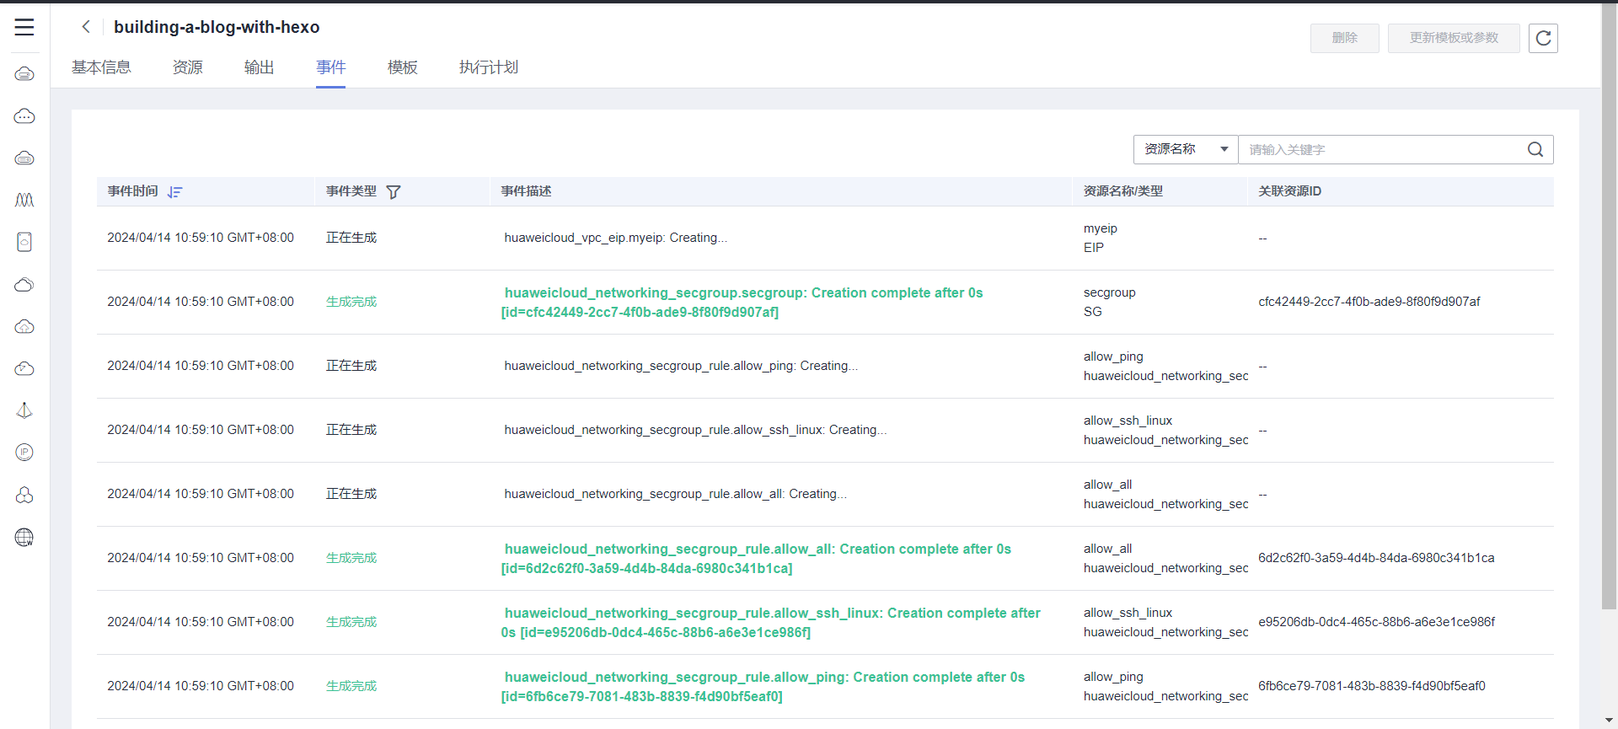
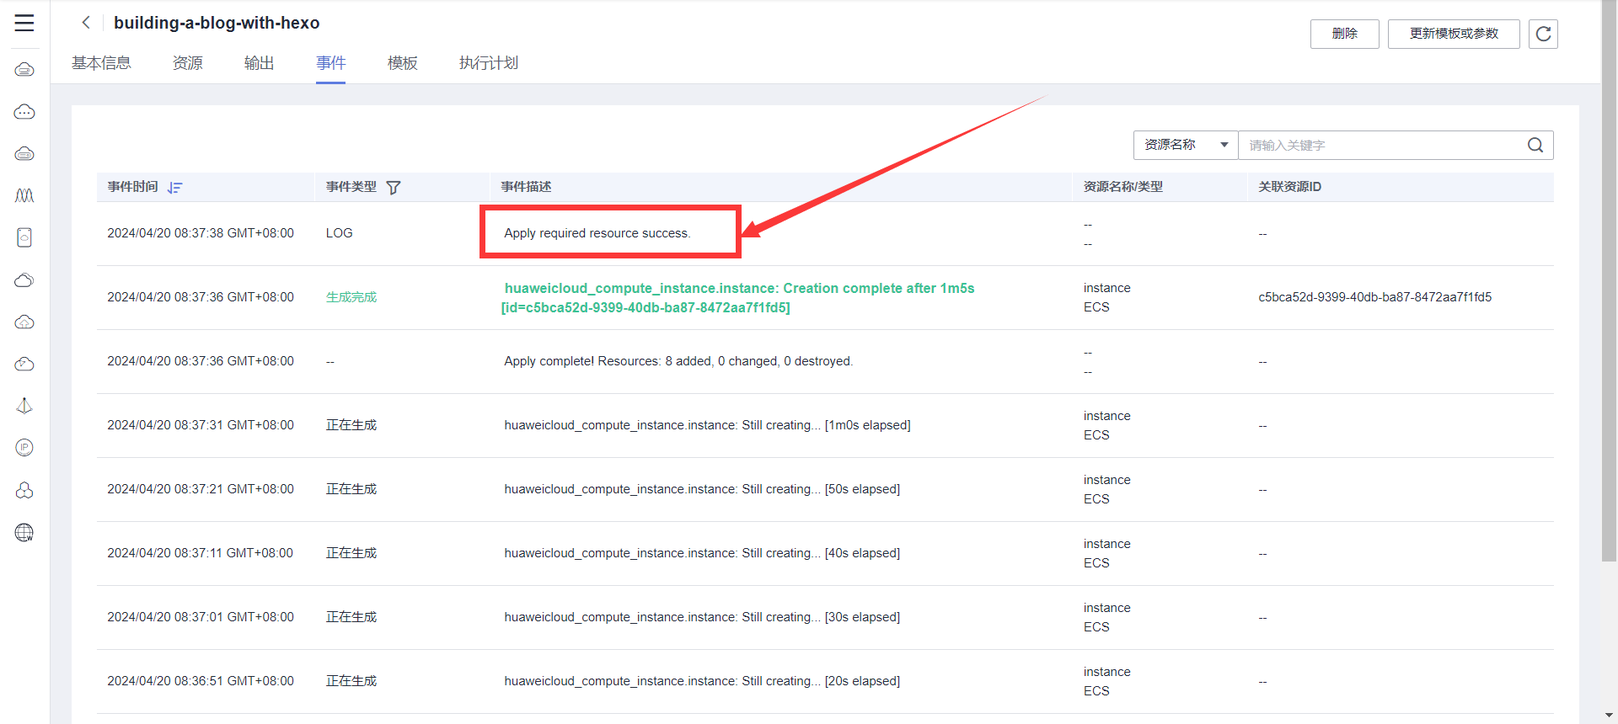
Site updated: 2024-04-20 19:26:58

diff --git a/2024/04/14/华为云/index.html b/2024/04/14/华为云/index.html
@@ -34,6 +34,32 @@
 <meta property="og:image" content="https://nuist666.github.io/images/%E6%89%A7%E8%A1%8C%E8%AE%A1%E5%88%92.png">
 <meta property="og:image" content="https://nuist666.github.io/images/%E6%89%A7%E8%A1%8C%E8%AE%A1%E5%88%92%E7%A1%AE%E8%AE%A4.png">
 <meta property="og:image" content="https://nuist666.github.io/images/%E8%B5%84%E6%BA%90%E5%88%9B%E5%BB%BA%E6%88%90%E5%8A%9F.png">
+<meta property="og:image" content="https://nuist666.github.io/images/%E6%9F%A5%E7%9C%8B%E5%BC%B9%E6%80%A7%E4%BA%91%E6%9C%8D%E5%8A%A1%E5%99%A8.png">
+<meta property="og:image" content="https://nuist666.github.io/images/%E7%82%B9%E5%87%BB%E8%BF%9C%E7%A8%8B%E7%99%BB%E5%BD%95.png">
+<meta property="og:image" content="https://nuist666.github.io/images/%E6%B7%BB%E5%8A%A0%E5%AE%89%E5%85%A8%E7%BB%84%E8%A7%84%E5%88%99.png">
+<meta property="og:image" content="https://nuist666.github.io/images/%E5%85%A5%E6%96%B9%E5%90%91%E4%B8%80%E9%94%AE%E6%94%BE%E9%80%9A%E5%B8%B8%E7%94%A8%E7%AB%AF%E5%8F%A3.png">
+<meta property="og:image" content="https://nuist666.github.io/images/%E5%85%A5%E6%96%B9%E5%90%91%E4%B8%80%E9%94%AE%E6%94%BE%E9%80%9A%E5%B8%B8%E7%94%A8%E7%AB%AF%E5%8F%A3%E7%A1%AE%E5%AE%9A.png">
+<meta property="og:image" content="https://nuist666.github.io/images/%E5%87%BA%E6%96%B9%E5%90%91%E4%B8%80%E9%94%AE%E6%94%BE%E9%80%9A%E5%B8%B8%E7%94%A8%E7%AB%AF%E5%8F%A3.png">
+<meta property="og:image" content="https://nuist666.github.io/images/%E5%87%BA%E6%96%B9%E5%90%91%E4%B8%80%E9%94%AE%E6%94%BE%E9%80%9A%E5%B8%B8%E7%94%A8%E7%AB%AF%E5%8F%A3%E7%A1%AE%E5%AE%9A.png">
+<meta property="og:image" content="https://nuist666.github.io/images/%E6%9F%A5%E7%9C%8B%E8%BE%93%E5%87%BA%E7%9A%84%E7%AB%99%E7%82%B9URL.png">
+<meta property="og:image" content="https://nuist666.github.io/images/CloudShell%E7%99%BB%E5%BD%95.png">
+<meta property="og:image" content="https://nuist666.github.io/images/CloudShell%E8%BF%9E%E6%8E%A5.png">
+<meta property="og:image" content="https://nuist666.github.io/images/CloudShell%E8%BF%9E%E6%8E%A5%E6%88%90%E5%8A%9F.png">
+<meta property="og:image" content="https://nuist666.github.io/images/%E6%9F%A5%E7%9C%8B%E6%90%AD%E5%BB%BAhexo%E5%8D%9A%E5%AE%A2%E9%A1%B9%E7%9B%AE%E7%9A%84%E5%88%9D%E5%A7%8B%E5%8C%96%E7%9B%AE%E5%BD%95.png">
+<meta property="og:image" content="https://nuist666.github.io/images/%E6%9F%A5%E7%9C%8B%E5%8D%9A%E5%AE%A2%E9%A1%B9%E7%9B%AE.png">
+<meta property="og:image" content="https://nuist666.github.io/images/%E5%88%87%E6%8D%A2%E6%93%8D%E4%BD%9C%E7%B3%BB%E7%BB%9F.png">
+<meta property="og:image" content="https://nuist666.github.io/images/%E8%BF%90%E8%A1%8Chexo%E6%8E%A7%E5%88%B6%E5%8F%B0%E7%95%8C%E9%9D%A2.png">
+<meta property="og:image" content="https://nuist666.github.io/images/%E8%BF%90%E8%A1%8C%E5%90%AF%E5%8A%A8hexo%E7%95%8C%E9%9D%A2.png">
+<meta property="og:image" content="https://nuist666.github.io/images/%E6%9C%8D%E5%8A%A1%E5%99%A8%E5%85%B3%E6%9C%BA.png">
+<meta property="og:image" content="https://nuist666.github.io/images/%E6%9C%8D%E5%8A%A1%E5%99%A8%E5%85%B3%E6%9C%BA%E7%A1%AE%E8%AE%A4.png">
+<meta property="og:image" content="https://nuist666.github.io/images/%E5%8D%B8%E8%BD%BD%E7%A3%81%E7%9B%98.png">
+<meta property="og:image" content="https://nuist666.github.io/images/%E5%88%A0%E9%99%A4%E7%A3%81%E7%9B%98.png">
+<meta property="og:image" content="https://nuist666.github.io/images/%E5%88%A0%E9%99%A4%E7%A3%81%E7%9B%98%E7%A1%AE%E8%AE%A4.png">
+<meta property="og:image" content="https://nuist666.github.io/images/%E8%A7%A3%E7%BB%91ip.png">
+<meta property="og:image" content="https://nuist666.github.io/images/%E8%A7%A3%E7%BB%91ip%E7%A1%AE%E8%AE%A4.png">
+<meta property="og:image" content="https://nuist666.github.io/images/%E9%87%8A%E6%94%BEip.png">
+<meta property="og:image" content="https://nuist666.github.io/images/%E5%88%A0%E9%99%A4%E6%9C%8D%E5%8A%A1%E5%99%A8.png">
+<meta property="og:image" content="https://nuist666.github.io/images/%E6%88%91%E7%9A%84%E8%B5%84%E6%BA%90.png">
 <meta property="og:image" content="https://nuist666.github.io/images/nodejs-npm%E7%89%88%E6%9C%AC.png">
 <meta property="og:image" content="https://nuist666.github.io/images/%E5%AE%89%E8%A3%85hexo.png">
 <meta property="og:image" content="https://nuist666.github.io/images/%E5%88%9B%E5%BB%BA%E5%8D%9A%E5%AE%A2%E9%A1%B9%E7%9B%AE%E6%96%87%E4%BB%B6.png">
@@ -55,7 +81,7 @@
 <meta property="og:image" content="https://nuist666.github.io/images/%E8%AF%84%E8%AE%BA%E6%88%90%E5%8A%9F.png">
 <meta property="og:image" content="https://nuist666.github.io/images/%E8%AF%84%E8%AE%BA%E6%88%90%E5%8A%9F2.png">
 <meta property="article:published_time" content="2024-04-14T01:01:15.896Z">
-<meta property="article:modified_time" content="2024-04-19T11:06:33.605Z">
+<meta property="article:modified_time" content="2024-04-20T05:04:27.961Z">
 <meta property="article:author" content="Nuist666">
 <meta property="article:tag" content="华为云,个人博客,Hexo">
 <meta name="twitter:card" content="summary">
@@ -350,23 +376,21 @@
 </tbody></table>
 <p>1.登录<a target="_blank" rel="noopener" href="https://www.huaweicloud.com/solution/implementations/index.html">华为云解决方案实践</a>，选择“基于Hexo快速搭建博客”解决方案。单击“一键部署”，跳转至解决方案创建堆栈界面。<br><img src="/images/%E8%A7%A3%E5%86%B3%E6%96%B9%E6%A1%88%E5%AE%9E%E6%96%BD%E5%BA%93.png" alt="解决方案实施库"><br>2.在选择模板界面中,单击“下一步”。<br><img src="/images/%E9%80%89%E6%8B%A9%E6%A8%A1%E6%9D%BF.png" alt="选择模板"><br>3.在配置参数界面中，参考上述表格完成自定义参数填写，单击“下一步”。<br><img src="/images/%E9%85%8D%E7%BD%AE%E5%8F%82%E6%95%B0.png" alt="配置参数"><br>4.在资源栈设置页面中，权限委托选择“rf_admin_trust”(可选)，单击“下一步”。<br><img src="/images/%E8%B5%84%E6%BA%90%E6%A0%88%E8%AE%BE%E7%BD%AE.png" alt="资源栈设置"><br>5.在配置确认页面中，单击“创建执行计划”。<br><img src="/images/%E9%85%8D%E7%BD%AE%E7%A1%AE%E8%AE%A4.png" alt="配置确认"><br>6.在弹出的创建执行计划框中，自定义填写执行计划名称，单击“确定”。<br><img src="/images/%E5%88%9B%E5%BB%BA%E6%89%A7%E8%A1%8C%E8%AE%A1%E5%88%92.png" alt="创建执行计划"><br>7.待执行计划状态为“创建成功，待部署”后，单击“部署”，并且在弹出的执行计划确认框中单击“执行”。<br><img src="/images/%E6%89%A7%E8%A1%8C%E8%AE%A1%E5%88%92.png" alt="执行计划"></p>
 <p><img src="/images/%E6%89%A7%E8%A1%8C%E8%AE%A1%E5%88%92%E7%A1%AE%E8%AE%A4.png" alt="执行计划确认"><br>8.等待“事件”中出现“Apply required resource success”，表示该解决方案已经部署完成。<br><img src="/images/%E8%B5%84%E6%BA%90%E5%88%9B%E5%BB%BA%E6%88%90%E5%8A%9F.png" alt="资源创建成功"></p>
-<h1 id="开始使用"><a href="#开始使用" class="headerlink" title="开始使用"></a>开始使用</h1><h3 id="安全组规则修改（可选）"><a href="#安全组规则修改（可选）" class="headerlink" title="安全组规则修改（可选）"></a>安全组规则修改（可选）</h3><p>安全组实际是网络流量访问策略，包括网络流量入方向规则和出方向规则，通过这些规则为安全组内具有相同保护需求并且相互信任的云服务器、云容器、云数据库等实例提供安全保护。<br>• 该解决方案使用4000端口用来访问网站，默认全放通，请参考<a target="_blank" rel="noopener" href="https://support.huaweicloud.com/usermanual-vpc/vpc_SecurityGroup_0005.html">修改安全组规则</a>，配置IP地址白名单，以便能正常使用服务。<br>• 该解决方案使用22端口用来远程登录弹性云服务器 ECS，默认对该方案创建的VPC子网网段放开，请参考<a target="_blank" rel="noopener" href="https://support.huaweicloud.com/usermanual-vpc/vpc_SecurityGroup_0005.html">修改安全组规则</a>，配置IP地址白名单，以便能正常访问服务。</p>
-<h3 id="验证服务"><a href="#验证服务" class="headerlink" title="验证服务"></a>验证服务</h3><p>1.单击该方案堆栈详情页面的“输出”，查看访问Hexo网站的站点URL。在浏览器访问该地址，进入已搭建完成的Hexo博客首页。</p>
-<p>&#x2F;&#x2F;TODO 图1 查看输出的站点URL</p>
-<p>&#x2F;&#x2F;TODO 图2 查看启动生成的Hexo博客，该博客主页使用默认的主题展示，博客title为Hello World。</p>
-<p>2.单击该方案堆栈详情页面的“输出”，查看搭建hexo博客项目的初始化目录。通过MobaXterm或其他终端工具以帐号（root）、密码方式连接云服务器登录。然后进入“&#x2F;data&#x2F;my_hexo_blog”目录，可使用Vscode、sublime等开发编辑工具对项目已有.md文件进行修改操作。</p>
-<p>&#x2F;&#x2F;TODO 图3 查看搭建hexo博客项目的初始化目录</p>
-<p>&#x2F;&#x2F;TODO 图4 通过终端工具进入该目录，查看搭建的hexo博客项目</p>
-<p>3.创建新贴、运行启动hexo、生成静态文件及部署等操作。</p>
-<p>&#x2F;&#x2F;TODO 图5 针对上述的linux命令操作，请参考下图博客首页的超链接内容详细介绍</p>
-<h1 id="附："><a href="#附：" class="headerlink" title="附："></a>附：</h1><h2 id="使用全新的linux服务器进行部署"><a href="#使用全新的linux服务器进行部署" class="headerlink" title="使用全新的linux服务器进行部署"></a>使用全新的linux服务器进行部署</h2><h3 id="1-安装nodejs、npm"><a href="#1-安装nodejs、npm" class="headerlink" title="1.安装nodejs、npm"></a>1.安装nodejs、npm</h3><figure class="highlight plaintext"><table><tr><td class="gutter"><pre><span class="line">1</span><br><span class="line">2</span><br><span class="line">3</span><br><span class="line">4</span><br><span class="line">5</span><br><span class="line">6</span><br><span class="line">7</span><br><span class="line">8</span><br><span class="line">9</span><br></pre></td><td class="code"><pre><span class="line">apt-get update</span><br><span class="line">apt-get install nodejs</span><br><span class="line">apt-get install npm</span><br><span class="line"># 安装n模块</span><br><span class="line">npm install -g n</span><br><span class="line"># 升级nodejs到最新stable版本</span><br><span class="line">n stable</span><br><span class="line"># 升级最新npm</span><br><span class="line">npm install npm@latest -g</span><br></pre></td></tr></table></figure>
+<h1 id="开始使用"><a href="#开始使用" class="headerlink" title="开始使用"></a>开始使用</h1><h3 id="安全组规则修改（可选）"><a href="#安全组规则修改（可选）" class="headerlink" title="安全组规则修改（可选）"></a>安全组规则修改（可选）</h3><p>安全组实际是网络流量访问策略，包括网络流量入方向规则和出方向规则，通过这些规则为安全组内具有相同保护需求并且相互信任的云服务器、云容器、云数据库等实例提供安全保护。<br>• 该解决方案使用4000端口用来访问网站，默认全放通，请参考<a target="_blank" rel="noopener" href="https://support.huaweicloud.com/usermanual-vpc/vpc_SecurityGroup_0005.html">修改安全组规则</a>，配置IP地址白名单，以便能正常使用服务。<br>• 该解决方案使用22端口用来远程登录弹性云服务器 ECS，默认对该方案创建的VPC子网网段放开，请参考<a target="_blank" rel="noopener" href="https://support.huaweicloud.com/usermanual-vpc/vpc_SecurityGroup_0005.html">修改安全组规则</a>，配置IP地址白名单，以便能正常访问服务。<br>1.单击”资源“项目中的弹性云服务器<br><img src="/images/%E6%9F%A5%E7%9C%8B%E5%BC%B9%E6%80%A7%E4%BA%91%E6%9C%8D%E5%8A%A1%E5%99%A8.png" alt="查看弹性云服务器"><br>2.点击右上角的”远程登录”<br><img src="/images/%E7%82%B9%E5%87%BB%E8%BF%9C%E7%A8%8B%E7%99%BB%E5%BD%95.png" alt="点击远程登录"><br>3.在弹出的窗口中点击”添加安全组规则”<br><img src="/images/%E6%B7%BB%E5%8A%A0%E5%AE%89%E5%85%A8%E7%BB%84%E8%A7%84%E5%88%99.png" alt="添加安全组规则"><br>4.入方向一键放通常用端口并确认<br><img src="/images/%E5%85%A5%E6%96%B9%E5%90%91%E4%B8%80%E9%94%AE%E6%94%BE%E9%80%9A%E5%B8%B8%E7%94%A8%E7%AB%AF%E5%8F%A3.png" alt="入方向一键放通常用端口"><br><img src="/images/%E5%85%A5%E6%96%B9%E5%90%91%E4%B8%80%E9%94%AE%E6%94%BE%E9%80%9A%E5%B8%B8%E7%94%A8%E7%AB%AF%E5%8F%A3%E7%A1%AE%E5%AE%9A.png" alt="入方向一键放通常用端口确定"><br>5.同理，出方向一键放通常用端口并确认。若已有安全组内规则无需添加。<br><img src="/images/%E5%87%BA%E6%96%B9%E5%90%91%E4%B8%80%E9%94%AE%E6%94%BE%E9%80%9A%E5%B8%B8%E7%94%A8%E7%AB%AF%E5%8F%A3.png" alt="出方向一键放通常用端口"><br><img src="/images/%E5%87%BA%E6%96%B9%E5%90%91%E4%B8%80%E9%94%AE%E6%94%BE%E9%80%9A%E5%B8%B8%E7%94%A8%E7%AB%AF%E5%8F%A3%E7%A1%AE%E5%AE%9A.png" alt="出方向一键放通常用端口确定"></p>
+<h3 id="验证服务"><a href="#验证服务" class="headerlink" title="验证服务"></a>验证服务</h3><p>1.单击该方案堆栈详情页面的“输出”，查看访问Hexo网站的站点URL。在浏览器访问该地址，进入已搭建完成的Hexo博客首页。<br>查看输出的站点URL<br><img src="/images/%E6%9F%A5%E7%9C%8B%E8%BE%93%E5%87%BA%E7%9A%84%E7%AB%99%E7%82%B9URL.png" alt="查看输出的站点URL"><br>查看启动生成的Hexo博客，该博客主页使用默认的主题展示，博客title为Hello World。</p>
+<p>2.单击该方案堆栈详情页面的“输出”，查看搭建hexo博客项目的初始化目录。通过MobaXterm或其他终端工具以帐号（root）、密码方式连接云服务器登录。然后进入“&#x2F;data&#x2F;my_hexo_blog”目录，可使用Vscode、sublime等开发编辑工具对项目已有.md文件进行修改操作。<br>本人使用CloudShell登录。在”资源“项目中的弹性云服务器页面中，点击远程登录，在弹出的页面中选择CloudShell登录。<br><img src="/images/CloudShell%E7%99%BB%E5%BD%95.png" alt="CloudShell登录"><br>输入密码并连接<br><img src="/images/CloudShell%E8%BF%9E%E6%8E%A5.png" alt="CloudShell连接"><br>连接成功后如下图所示<br><img src="/images/CloudShell%E8%BF%9E%E6%8E%A5%E6%88%90%E5%8A%9F.png" alt="CloudShell连接成功"><br>查看搭建hexo博客项目的初始化目录<br><img src="/images/%E6%9F%A5%E7%9C%8B%E6%90%AD%E5%BB%BAhexo%E5%8D%9A%E5%AE%A2%E9%A1%B9%E7%9B%AE%E7%9A%84%E5%88%9D%E5%A7%8B%E5%8C%96%E7%9B%AE%E5%BD%95.png" alt="查看搭建hexo博客项目的初始化目录"><br>通过终端工具进入该目录，查看搭建的hexo博客项目。<br><img src="/images/%E6%9F%A5%E7%9C%8B%E5%8D%9A%E5%AE%A2%E9%A1%B9%E7%9B%AE.png" alt="查看博客项目"><br>若没有该目录，根据附录内容进行安装。<br>若未使用ubuntu服务器，可手动切换ubuntu操作系统。<br><img src="/images/%E5%88%87%E6%8D%A2%E6%93%8D%E4%BD%9C%E7%B3%BB%E7%BB%9F.png" alt="切换操作系统"></p>
+<p>3.创建新贴、运行启动hexo、生成静态文件及部署等操作。具体操作见附录。<br><img src="/images/%E8%BF%90%E8%A1%8Chexo%E6%8E%A7%E5%88%B6%E5%8F%B0%E7%95%8C%E9%9D%A2.png" alt="运行hexo控制台界面"><br><img src="/images/%E8%BF%90%E8%A1%8C%E5%90%AF%E5%8A%A8hexo%E7%95%8C%E9%9D%A2.png" alt="运行启动hexo界面"></p>
+<h4 id="不再使用时"><a href="#不再使用时" class="headerlink" title="不再使用时"></a>不再使用时</h4><p>点击关机<br><img src="/images/%E6%9C%8D%E5%8A%A1%E5%99%A8%E5%85%B3%E6%9C%BA.png" alt="服务器关机"><br><img src="/images/%E6%9C%8D%E5%8A%A1%E5%99%A8%E5%85%B3%E6%9C%BA%E7%A1%AE%E8%AE%A4.png" alt="服务器关机确认"><br>卸载云硬盘<br><img src="/images/%E5%8D%B8%E8%BD%BD%E7%A3%81%E7%9B%98.png" alt="卸载磁盘"><br>删除云硬盘并确认(磁盘数据全部丢失)<br><img src="/images/%E5%88%A0%E9%99%A4%E7%A3%81%E7%9B%98.png" alt="删除磁盘"><br><img src="/images/%E5%88%A0%E9%99%A4%E7%A3%81%E7%9B%98%E7%A1%AE%E8%AE%A4.png" alt="删除磁盘确认"><br>解绑并释放ip<br><img src="/images/%E8%A7%A3%E7%BB%91ip.png" alt="解绑ip"><br><img src="/images/%E8%A7%A3%E7%BB%91ip%E7%A1%AE%E8%AE%A4.png" alt="解绑ip确认"><br><img src="/images/%E9%87%8A%E6%94%BEip.png" alt="释放ip">删除服务器<br><img src="/images/%E5%88%A0%E9%99%A4%E6%9C%8D%E5%8A%A1%E5%99%A8.png" alt="删除服务器"><br>进入”我的资源”，确保无磁盘、弹性公网ip和云服务器<br><img src="/images/%E6%88%91%E7%9A%84%E8%B5%84%E6%BA%90.png" alt="我的资源"></p>
+<h1 id="附录"><a href="#附录" class="headerlink" title="附录"></a>附录</h1><h2 id="使用全新的ubuntu服务器进行部署"><a href="#使用全新的ubuntu服务器进行部署" class="headerlink" title="使用全新的ubuntu服务器进行部署"></a>使用全新的ubuntu服务器进行部署</h2><h3 id="1-安装nodejs、npm"><a href="#1-安装nodejs、npm" class="headerlink" title="1.安装nodejs、npm"></a>1.安装nodejs、npm</h3><h4 id="方法一-通过NodeSource提供的官方包安装-自带最新npm（最推荐）"><a href="#方法一-通过NodeSource提供的官方包安装-自带最新npm（最推荐）" class="headerlink" title="方法一 通过NodeSource提供的官方包安装 自带最新npm（最推荐）"></a>方法一 通过NodeSource提供的官方包安装 自带最新npm（最推荐）</h4><p>以下是 Nodejs 20.x的安装，一行代码搞定<br>&amp;&amp;\ 的意思是前面的命令执行无误后，再执行后面代码</p>
+<figure class="highlight plaintext"><table><tr><td class="gutter"><pre><span class="line">1</span><br><span class="line">2</span><br></pre></td><td class="code"><pre><span class="line">curl -fsSL https://deb.nodesource.com/setup_20.x | sudo -E bash - &amp;&amp;\</span><br><span class="line">sudo apt-get install -y nodejs</span><br></pre></td></tr></table></figure>
+<h4 id="方法二-直接用apt安装，然后用n版本工具升级最新版"><a href="#方法二-直接用apt安装，然后用n版本工具升级最新版" class="headerlink" title="方法二 直接用apt安装，然后用n版本工具升级最新版"></a>方法二 直接用apt安装，然后用n版本工具升级最新版</h4><figure class="highlight plaintext"><table><tr><td class="gutter"><pre><span class="line">1</span><br><span class="line">2</span><br><span class="line">3</span><br><span class="line">4</span><br><span class="line">5</span><br><span class="line">6</span><br><span class="line">7</span><br><span class="line">8</span><br><span class="line">9</span><br><span class="line">10</span><br></pre></td><td class="code"><pre><span class="line">apt-get update</span><br><span class="line">apt-get install nodejs</span><br><span class="line">apt-get install npm</span><br><span class="line">npm config set registry https://mirrors.huaweicloud.com/repository/npm/</span><br><span class="line"># 安装n模块</span><br><span class="line">npm install -g n</span><br><span class="line"># 升级nodejs到最新stable版本</span><br><span class="line">n stable</span><br><span class="line"># 升级最新npm</span><br><span class="line">npm install npm@latest -g</span><br></pre></td></tr></table></figure>
 <h3 id="2-查看nodejs和npm版本"><a href="#2-查看nodejs和npm版本" class="headerlink" title="2.查看nodejs和npm版本"></a>2.查看nodejs和npm版本</h3><figure class="highlight plaintext"><table><tr><td class="gutter"><pre><span class="line">1</span><br><span class="line">2</span><br></pre></td><td class="code"><pre><span class="line">node -v</span><br><span class="line">npm -v</span><br></pre></td></tr></table></figure>
 
 <p><img src="/images/nodejs-npm%E7%89%88%E6%9C%AC.png" alt="nodejs-npm版本"></p>
 <h3 id="3-安装hexo"><a href="#3-安装hexo" class="headerlink" title="3.安装hexo"></a>3.安装hexo</h3><figure class="highlight plaintext"><table><tr><td class="gutter"><pre><span class="line">1</span><br></pre></td><td class="code"><pre><span class="line">npm install -g hexo-cli</span><br></pre></td></tr></table></figure>
 
 <p><img src="/images/%E5%AE%89%E8%A3%85hexo.png" alt="安装hexo"></p>
-<h3 id="4-在指定位置创建博客项目文件（联网下载模板-用到git）"><a href="#4-在指定位置创建博客项目文件（联网下载模板-用到git）" class="headerlink" title="4.在指定位置创建博客项目文件（联网下载模板,用到git）"></a>4.在指定位置创建博客项目文件（联网下载模板,用到git）</h3><figure class="highlight plaintext"><table><tr><td class="gutter"><pre><span class="line">1</span><br><span class="line">2</span><br><span class="line">3</span><br></pre></td><td class="code"><pre><span class="line">hexo init blog</span><br><span class="line"># blog是你的项目文件夹名称,可以随便起</span><br><span class="line"># 此处下载速度慢，不要关闭窗口</span><br></pre></td></tr></table></figure>
+<h3 id="4-在指定位置创建博客项目文件（联网下载模板-用到git）"><a href="#4-在指定位置创建博客项目文件（联网下载模板-用到git）" class="headerlink" title="4.在指定位置创建博客项目文件（联网下载模板,用到git）"></a>4.在指定位置创建博客项目文件（联网下载模板,用到git）</h3><figure class="highlight plaintext"><table><tr><td class="gutter"><pre><span class="line">1</span><br><span class="line">2</span><br><span class="line">3</span><br></pre></td><td class="code"><pre><span class="line">hexo init my_hexo_blog</span><br><span class="line"># my_hexo_blog是你的项目文件夹名称,可以随便起</span><br><span class="line"># 此处下载速度慢，不要关闭窗口</span><br></pre></td></tr></table></figure>
 <p><img src="/images/%E5%88%9B%E5%BB%BA%E5%8D%9A%E5%AE%A2%E9%A1%B9%E7%9B%AE%E6%96%87%E4%BB%B6.png" alt="创建博客项目文件"></p>
 <h3 id="5-进入目录安装依赖项"><a href="#5-进入目录安装依赖项" class="headerlink" title="5.进入目录安装依赖项"></a>5.进入目录安装依赖项</h3><figure class="highlight plaintext"><table><tr><td class="gutter"><pre><span class="line">1</span><br><span class="line">2</span><br></pre></td><td class="code"><pre><span class="line">cd my_hexo_blog</span><br><span class="line">npm install</span><br></pre></td></tr></table></figure>
 <p><img src="/images/%E5%AE%89%E8%A3%85%E4%BE%9D%E8%B5%96%E9%A1%B9.png" alt="安装依赖项"></p>

diff --git a/index.html b/index.html
@@ -294,23 +294,21 @@
 </tbody></table>
 <p>1.登录<a target="_blank" rel="noopener" href="https://www.huaweicloud.com/solution/implementations/index.html">华为云解决方案实践</a>，选择“基于Hexo快速搭建博客”解决方案。单击“一键部署”，跳转至解决方案创建堆栈界面。<br><img src="/images/%E8%A7%A3%E5%86%B3%E6%96%B9%E6%A1%88%E5%AE%9E%E6%96%BD%E5%BA%93.png" alt="解决方案实施库"><br>2.在选择模板界面中,单击“下一步”。<br><img src="/images/%E9%80%89%E6%8B%A9%E6%A8%A1%E6%9D%BF.png" alt="选择模板"><br>3.在配置参数界面中，参考上述表格完成自定义参数填写，单击“下一步”。<br><img src="/images/%E9%85%8D%E7%BD%AE%E5%8F%82%E6%95%B0.png" alt="配置参数"><br>4.在资源栈设置页面中，权限委托选择“rf_admin_trust”(可选)，单击“下一步”。<br><img src="/images/%E8%B5%84%E6%BA%90%E6%A0%88%E8%AE%BE%E7%BD%AE.png" alt="资源栈设置"><br>5.在配置确认页面中，单击“创建执行计划”。<br><img src="/images/%E9%85%8D%E7%BD%AE%E7%A1%AE%E8%AE%A4.png" alt="配置确认"><br>6.在弹出的创建执行计划框中，自定义填写执行计划名称，单击“确定”。<br><img src="/images/%E5%88%9B%E5%BB%BA%E6%89%A7%E8%A1%8C%E8%AE%A1%E5%88%92.png" alt="创建执行计划"><br>7.待执行计划状态为“创建成功，待部署”后，单击“部署”，并且在弹出的执行计划确认框中单击“执行”。<br><img src="/images/%E6%89%A7%E8%A1%8C%E8%AE%A1%E5%88%92.png" alt="执行计划"></p>
 <p><img src="/images/%E6%89%A7%E8%A1%8C%E8%AE%A1%E5%88%92%E7%A1%AE%E8%AE%A4.png" alt="执行计划确认"><br>8.等待“事件”中出现“Apply required resource success”，表示该解决方案已经部署完成。<br><img src="/images/%E8%B5%84%E6%BA%90%E5%88%9B%E5%BB%BA%E6%88%90%E5%8A%9F.png" alt="资源创建成功"></p>
-<h1 id="开始使用"><a href="#开始使用" class="headerlink" title="开始使用"></a>开始使用</h1><h3 id="安全组规则修改（可选）"><a href="#安全组规则修改（可选）" class="headerlink" title="安全组规则修改（可选）"></a>安全组规则修改（可选）</h3><p>安全组实际是网络流量访问策略，包括网络流量入方向规则和出方向规则，通过这些规则为安全组内具有相同保护需求并且相互信任的云服务器、云容器、云数据库等实例提供安全保护。<br>• 该解决方案使用4000端口用来访问网站，默认全放通，请参考<a target="_blank" rel="noopener" href="https://support.huaweicloud.com/usermanual-vpc/vpc_SecurityGroup_0005.html">修改安全组规则</a>，配置IP地址白名单，以便能正常使用服务。<br>• 该解决方案使用22端口用来远程登录弹性云服务器 ECS，默认对该方案创建的VPC子网网段放开，请参考<a target="_blank" rel="noopener" href="https://support.huaweicloud.com/usermanual-vpc/vpc_SecurityGroup_0005.html">修改安全组规则</a>，配置IP地址白名单，以便能正常访问服务。</p>
-<h3 id="验证服务"><a href="#验证服务" class="headerlink" title="验证服务"></a>验证服务</h3><p>1.单击该方案堆栈详情页面的“输出”，查看访问Hexo网站的站点URL。在浏览器访问该地址，进入已搭建完成的Hexo博客首页。</p>
-<p>&#x2F;&#x2F;TODO 图1 查看输出的站点URL</p>
-<p>&#x2F;&#x2F;TODO 图2 查看启动生成的Hexo博客，该博客主页使用默认的主题展示，博客title为Hello World。</p>
-<p>2.单击该方案堆栈详情页面的“输出”，查看搭建hexo博客项目的初始化目录。通过MobaXterm或其他终端工具以帐号（root）、密码方式连接云服务器登录。然后进入“&#x2F;data&#x2F;my_hexo_blog”目录，可使用Vscode、sublime等开发编辑工具对项目已有.md文件进行修改操作。</p>
-<p>&#x2F;&#x2F;TODO 图3 查看搭建hexo博客项目的初始化目录</p>
-<p>&#x2F;&#x2F;TODO 图4 通过终端工具进入该目录，查看搭建的hexo博客项目</p>
-<p>3.创建新贴、运行启动hexo、生成静态文件及部署等操作。</p>
-<p>&#x2F;&#x2F;TODO 图5 针对上述的linux命令操作，请参考下图博客首页的超链接内容详细介绍</p>
-<h1 id="附："><a href="#附：" class="headerlink" title="附："></a>附：</h1><h2 id="使用全新的linux服务器进行部署"><a href="#使用全新的linux服务器进行部署" class="headerlink" title="使用全新的linux服务器进行部署"></a>使用全新的linux服务器进行部署</h2><h3 id="1-安装nodejs、npm"><a href="#1-安装nodejs、npm" class="headerlink" title="1.安装nodejs、npm"></a>1.安装nodejs、npm</h3><figure class="highlight plaintext"><table><tr><td class="gutter"><pre><span class="line">1</span><br><span class="line">2</span><br><span class="line">3</span><br><span class="line">4</span><br><span class="line">5</span><br><span class="line">6</span><br><span class="line">7</span><br><span class="line">8</span><br><span class="line">9</span><br></pre></td><td class="code"><pre><span class="line">apt-get update</span><br><span class="line">apt-get install nodejs</span><br><span class="line">apt-get install npm</span><br><span class="line"># 安装n模块</span><br><span class="line">npm install -g n</span><br><span class="line"># 升级nodejs到最新stable版本</span><br><span class="line">n stable</span><br><span class="line"># 升级最新npm</span><br><span class="line">npm install npm@latest -g</span><br></pre></td></tr></table></figure>
+<h1 id="开始使用"><a href="#开始使用" class="headerlink" title="开始使用"></a>开始使用</h1><h3 id="安全组规则修改（可选）"><a href="#安全组规则修改（可选）" class="headerlink" title="安全组规则修改（可选）"></a>安全组规则修改（可选）</h3><p>安全组实际是网络流量访问策略，包括网络流量入方向规则和出方向规则，通过这些规则为安全组内具有相同保护需求并且相互信任的云服务器、云容器、云数据库等实例提供安全保护。<br>• 该解决方案使用4000端口用来访问网站，默认全放通，请参考<a target="_blank" rel="noopener" href="https://support.huaweicloud.com/usermanual-vpc/vpc_SecurityGroup_0005.html">修改安全组规则</a>，配置IP地址白名单，以便能正常使用服务。<br>• 该解决方案使用22端口用来远程登录弹性云服务器 ECS，默认对该方案创建的VPC子网网段放开，请参考<a target="_blank" rel="noopener" href="https://support.huaweicloud.com/usermanual-vpc/vpc_SecurityGroup_0005.html">修改安全组规则</a>，配置IP地址白名单，以便能正常访问服务。<br>1.单击”资源“项目中的弹性云服务器<br><img src="/images/%E6%9F%A5%E7%9C%8B%E5%BC%B9%E6%80%A7%E4%BA%91%E6%9C%8D%E5%8A%A1%E5%99%A8.png" alt="查看弹性云服务器"><br>2.点击右上角的”远程登录”<br><img src="/images/%E7%82%B9%E5%87%BB%E8%BF%9C%E7%A8%8B%E7%99%BB%E5%BD%95.png" alt="点击远程登录"><br>3.在弹出的窗口中点击”添加安全组规则”<br><img src="/images/%E6%B7%BB%E5%8A%A0%E5%AE%89%E5%85%A8%E7%BB%84%E8%A7%84%E5%88%99.png" alt="添加安全组规则"><br>4.入方向一键放通常用端口并确认<br><img src="/images/%E5%85%A5%E6%96%B9%E5%90%91%E4%B8%80%E9%94%AE%E6%94%BE%E9%80%9A%E5%B8%B8%E7%94%A8%E7%AB%AF%E5%8F%A3.png" alt="入方向一键放通常用端口"><br><img src="/images/%E5%85%A5%E6%96%B9%E5%90%91%E4%B8%80%E9%94%AE%E6%94%BE%E9%80%9A%E5%B8%B8%E7%94%A8%E7%AB%AF%E5%8F%A3%E7%A1%AE%E5%AE%9A.png" alt="入方向一键放通常用端口确定"><br>5.同理，出方向一键放通常用端口并确认。若已有安全组内规则无需添加。<br><img src="/images/%E5%87%BA%E6%96%B9%E5%90%91%E4%B8%80%E9%94%AE%E6%94%BE%E9%80%9A%E5%B8%B8%E7%94%A8%E7%AB%AF%E5%8F%A3.png" alt="出方向一键放通常用端口"><br><img src="/images/%E5%87%BA%E6%96%B9%E5%90%91%E4%B8%80%E9%94%AE%E6%94%BE%E9%80%9A%E5%B8%B8%E7%94%A8%E7%AB%AF%E5%8F%A3%E7%A1%AE%E5%AE%9A.png" alt="出方向一键放通常用端口确定"></p>
+<h3 id="验证服务"><a href="#验证服务" class="headerlink" title="验证服务"></a>验证服务</h3><p>1.单击该方案堆栈详情页面的“输出”，查看访问Hexo网站的站点URL。在浏览器访问该地址，进入已搭建完成的Hexo博客首页。<br>查看输出的站点URL<br><img src="/images/%E6%9F%A5%E7%9C%8B%E8%BE%93%E5%87%BA%E7%9A%84%E7%AB%99%E7%82%B9URL.png" alt="查看输出的站点URL"><br>查看启动生成的Hexo博客，该博客主页使用默认的主题展示，博客title为Hello World。</p>
+<p>2.单击该方案堆栈详情页面的“输出”，查看搭建hexo博客项目的初始化目录。通过MobaXterm或其他终端工具以帐号（root）、密码方式连接云服务器登录。然后进入“&#x2F;data&#x2F;my_hexo_blog”目录，可使用Vscode、sublime等开发编辑工具对项目已有.md文件进行修改操作。<br>本人使用CloudShell登录。在”资源“项目中的弹性云服务器页面中，点击远程登录，在弹出的页面中选择CloudShell登录。<br><img src="/images/CloudShell%E7%99%BB%E5%BD%95.png" alt="CloudShell登录"><br>输入密码并连接<br><img src="/images/CloudShell%E8%BF%9E%E6%8E%A5.png" alt="CloudShell连接"><br>连接成功后如下图所示<br><img src="/images/CloudShell%E8%BF%9E%E6%8E%A5%E6%88%90%E5%8A%9F.png" alt="CloudShell连接成功"><br>查看搭建hexo博客项目的初始化目录<br><img src="/images/%E6%9F%A5%E7%9C%8B%E6%90%AD%E5%BB%BAhexo%E5%8D%9A%E5%AE%A2%E9%A1%B9%E7%9B%AE%E7%9A%84%E5%88%9D%E5%A7%8B%E5%8C%96%E7%9B%AE%E5%BD%95.png" alt="查看搭建hexo博客项目的初始化目录"><br>通过终端工具进入该目录，查看搭建的hexo博客项目。<br><img src="/images/%E6%9F%A5%E7%9C%8B%E5%8D%9A%E5%AE%A2%E9%A1%B9%E7%9B%AE.png" alt="查看博客项目"><br>若没有该目录，根据附录内容进行安装。<br>若未使用ubuntu服务器，可手动切换ubuntu操作系统。<br><img src="/images/%E5%88%87%E6%8D%A2%E6%93%8D%E4%BD%9C%E7%B3%BB%E7%BB%9F.png" alt="切换操作系统"></p>
+<p>3.创建新贴、运行启动hexo、生成静态文件及部署等操作。具体操作见附录。<br><img src="/images/%E8%BF%90%E8%A1%8Chexo%E6%8E%A7%E5%88%B6%E5%8F%B0%E7%95%8C%E9%9D%A2.png" alt="运行hexo控制台界面"><br><img src="/images/%E8%BF%90%E8%A1%8C%E5%90%AF%E5%8A%A8hexo%E7%95%8C%E9%9D%A2.png" alt="运行启动hexo界面"></p>
+<h4 id="不再使用时"><a href="#不再使用时" class="headerlink" title="不再使用时"></a>不再使用时</h4><p>点击关机<br><img src="/images/%E6%9C%8D%E5%8A%A1%E5%99%A8%E5%85%B3%E6%9C%BA.png" alt="服务器关机"><br><img src="/images/%E6%9C%8D%E5%8A%A1%E5%99%A8%E5%85%B3%E6%9C%BA%E7%A1%AE%E8%AE%A4.png" alt="服务器关机确认"><br>卸载云硬盘<br><img src="/images/%E5%8D%B8%E8%BD%BD%E7%A3%81%E7%9B%98.png" alt="卸载磁盘"><br>删除云硬盘并确认(磁盘数据全部丢失)<br><img src="/images/%E5%88%A0%E9%99%A4%E7%A3%81%E7%9B%98.png" alt="删除磁盘"><br><img src="/images/%E5%88%A0%E9%99%A4%E7%A3%81%E7%9B%98%E7%A1%AE%E8%AE%A4.png" alt="删除磁盘确认"><br>解绑并释放ip<br><img src="/images/%E8%A7%A3%E7%BB%91ip.png" alt="解绑ip"><br><img src="/images/%E8%A7%A3%E7%BB%91ip%E7%A1%AE%E8%AE%A4.png" alt="解绑ip确认"><br><img src="/images/%E9%87%8A%E6%94%BEip.png" alt="释放ip">删除服务器<br><img src="/images/%E5%88%A0%E9%99%A4%E6%9C%8D%E5%8A%A1%E5%99%A8.png" alt="删除服务器"><br>进入”我的资源”，确保无磁盘、弹性公网ip和云服务器<br><img src="/images/%E6%88%91%E7%9A%84%E8%B5%84%E6%BA%90.png" alt="我的资源"></p>
+<h1 id="附录"><a href="#附录" class="headerlink" title="附录"></a>附录</h1><h2 id="使用全新的ubuntu服务器进行部署"><a href="#使用全新的ubuntu服务器进行部署" class="headerlink" title="使用全新的ubuntu服务器进行部署"></a>使用全新的ubuntu服务器进行部署</h2><h3 id="1-安装nodejs、npm"><a href="#1-安装nodejs、npm" class="headerlink" title="1.安装nodejs、npm"></a>1.安装nodejs、npm</h3><h4 id="方法一-通过NodeSource提供的官方包安装-自带最新npm（最推荐）"><a href="#方法一-通过NodeSource提供的官方包安装-自带最新npm（最推荐）" class="headerlink" title="方法一 通过NodeSource提供的官方包安装 自带最新npm（最推荐）"></a>方法一 通过NodeSource提供的官方包安装 自带最新npm（最推荐）</h4><p>以下是 Nodejs 20.x的安装，一行代码搞定<br>&amp;&amp;\ 的意思是前面的命令执行无误后，再执行后面代码</p>
+<figure class="highlight plaintext"><table><tr><td class="gutter"><pre><span class="line">1</span><br><span class="line">2</span><br></pre></td><td class="code"><pre><span class="line">curl -fsSL https://deb.nodesource.com/setup_20.x | sudo -E bash - &amp;&amp;\</span><br><span class="line">sudo apt-get install -y nodejs</span><br></pre></td></tr></table></figure>
+<h4 id="方法二-直接用apt安装，然后用n版本工具升级最新版"><a href="#方法二-直接用apt安装，然后用n版本工具升级最新版" class="headerlink" title="方法二 直接用apt安装，然后用n版本工具升级最新版"></a>方法二 直接用apt安装，然后用n版本工具升级最新版</h4><figure class="highlight plaintext"><table><tr><td class="gutter"><pre><span class="line">1</span><br><span class="line">2</span><br><span class="line">3</span><br><span class="line">4</span><br><span class="line">5</span><br><span class="line">6</span><br><span class="line">7</span><br><span class="line">8</span><br><span class="line">9</span><br><span class="line">10</span><br></pre></td><td class="code"><pre><span class="line">apt-get update</span><br><span class="line">apt-get install nodejs</span><br><span class="line">apt-get install npm</span><br><span class="line">npm config set registry https://mirrors.huaweicloud.com/repository/npm/</span><br><span class="line"># 安装n模块</span><br><span class="line">npm install -g n</span><br><span class="line"># 升级nodejs到最新stable版本</span><br><span class="line">n stable</span><br><span class="line"># 升级最新npm</span><br><span class="line">npm install npm@latest -g</span><br></pre></td></tr></table></figure>
 <h3 id="2-查看nodejs和npm版本"><a href="#2-查看nodejs和npm版本" class="headerlink" title="2.查看nodejs和npm版本"></a>2.查看nodejs和npm版本</h3><figure class="highlight plaintext"><table><tr><td class="gutter"><pre><span class="line">1</span><br><span class="line">2</span><br></pre></td><td class="code"><pre><span class="line">node -v</span><br><span class="line">npm -v</span><br></pre></td></tr></table></figure>
 
 <p><img src="/images/nodejs-npm%E7%89%88%E6%9C%AC.png" alt="nodejs-npm版本"></p>
 <h3 id="3-安装hexo"><a href="#3-安装hexo" class="headerlink" title="3.安装hexo"></a>3.安装hexo</h3><figure class="highlight plaintext"><table><tr><td class="gutter"><pre><span class="line">1</span><br></pre></td><td class="code"><pre><span class="line">npm install -g hexo-cli</span><br></pre></td></tr></table></figure>
 
 <p><img src="/images/%E5%AE%89%E8%A3%85hexo.png" alt="安装hexo"></p>
-<h3 id="4-在指定位置创建博客项目文件（联网下载模板-用到git）"><a href="#4-在指定位置创建博客项目文件（联网下载模板-用到git）" class="headerlink" title="4.在指定位置创建博客项目文件（联网下载模板,用到git）"></a>4.在指定位置创建博客项目文件（联网下载模板,用到git）</h3><figure class="highlight plaintext"><table><tr><td class="gutter"><pre><span class="line">1</span><br><span class="line">2</span><br><span class="line">3</span><br></pre></td><td class="code"><pre><span class="line">hexo init blog</span><br><span class="line"># blog是你的项目文件夹名称,可以随便起</span><br><span class="line"># 此处下载速度慢，不要关闭窗口</span><br></pre></td></tr></table></figure>
+<h3 id="4-在指定位置创建博客项目文件（联网下载模板-用到git）"><a href="#4-在指定位置创建博客项目文件（联网下载模板-用到git）" class="headerlink" title="4.在指定位置创建博客项目文件（联网下载模板,用到git）"></a>4.在指定位置创建博客项目文件（联网下载模板,用到git）</h3><figure class="highlight plaintext"><table><tr><td class="gutter"><pre><span class="line">1</span><br><span class="line">2</span><br><span class="line">3</span><br></pre></td><td class="code"><pre><span class="line">hexo init my_hexo_blog</span><br><span class="line"># my_hexo_blog是你的项目文件夹名称,可以随便起</span><br><span class="line"># 此处下载速度慢，不要关闭窗口</span><br></pre></td></tr></table></figure>
 <p><img src="/images/%E5%88%9B%E5%BB%BA%E5%8D%9A%E5%AE%A2%E9%A1%B9%E7%9B%AE%E6%96%87%E4%BB%B6.png" alt="创建博客项目文件"></p>
 <h3 id="5-进入目录安装依赖项"><a href="#5-进入目录安装依赖项" class="headerlink" title="5.进入目录安装依赖项"></a>5.进入目录安装依赖项</h3><figure class="highlight plaintext"><table><tr><td class="gutter"><pre><span class="line">1</span><br><span class="line">2</span><br></pre></td><td class="code"><pre><span class="line">cd my_hexo_blog</span><br><span class="line">npm install</span><br></pre></td></tr></table></figure>
 <p><img src="/images/%E5%AE%89%E8%A3%85%E4%BE%9D%E8%B5%96%E9%A1%B9.png" alt="安装依赖项"></p>
